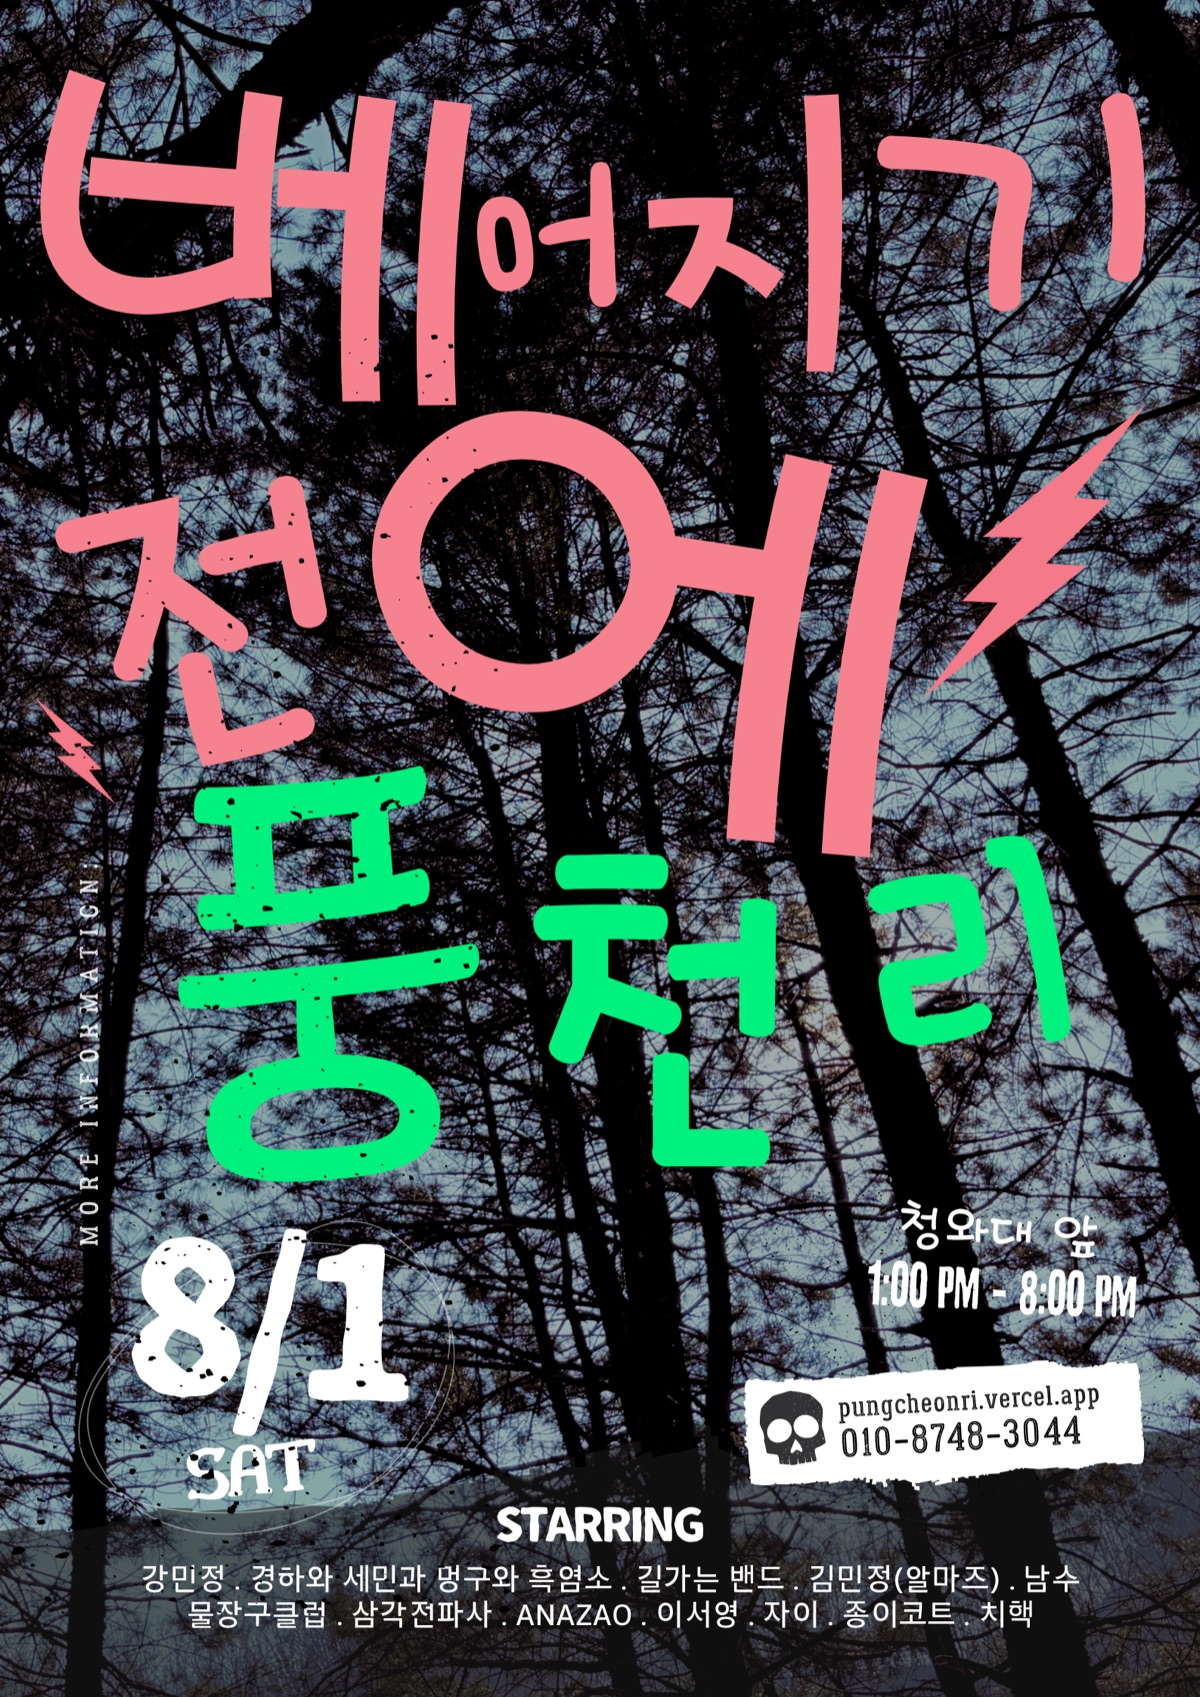
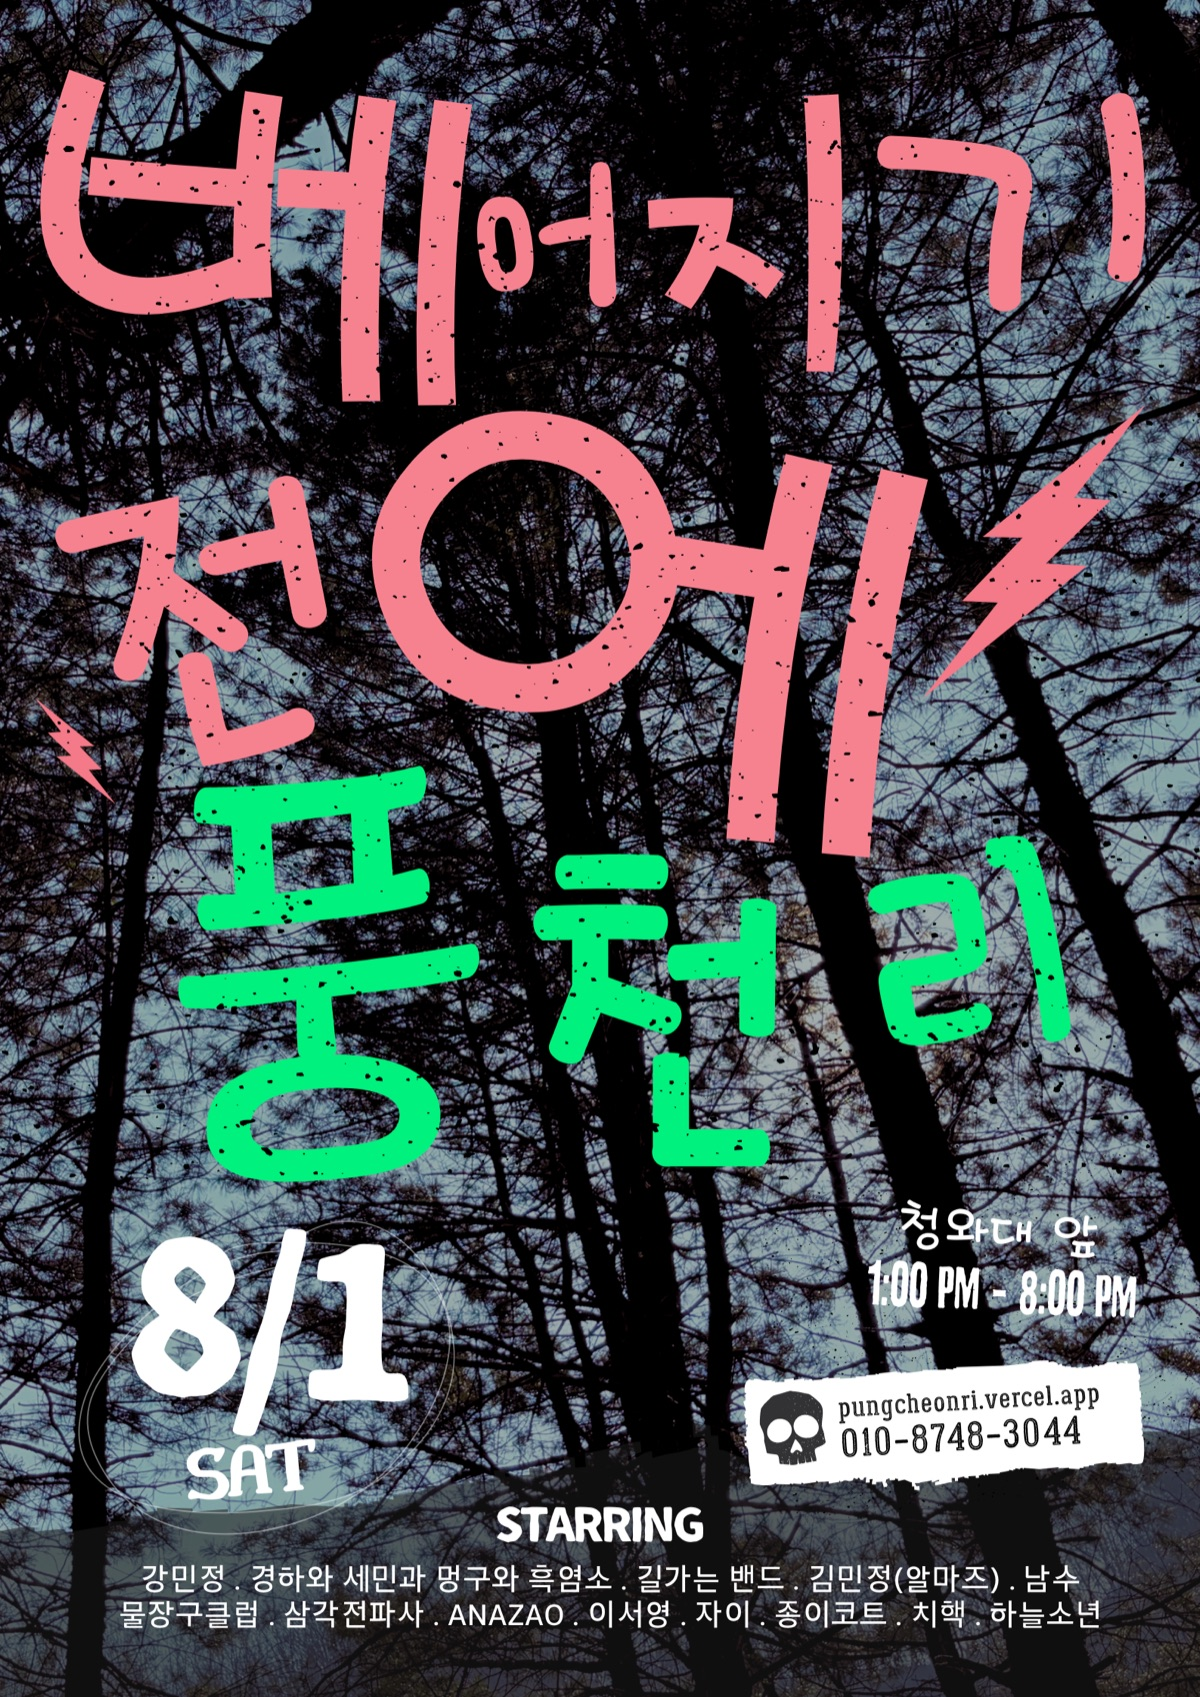
출연자명 '하늘소년'으로 변경 + 13팀 신규 포스터 교체(표시·OG)
- 하늘소년 김영준 → 하늘소년 (라인업·타임테이블·메타데이터)
- 하늘소년 포함 13팀 포스터 최신본으로 교체, alt에 라인업 복원

diff --git a/website/src/app/concert/page.tsx b/website/src/app/concert/page.tsx
@@ -26,7 +26,7 @@ import ConcertHero from "./ConcertHero";
 export const metadata: Metadata = {
   title: "베어지기 전에 풍천리 — 8·1 청와대 앞 공연",
   description:
-    "2026년 8월 1일(토) 오후 1시–8시, 청와대 앞. 잣나무 11만 그루가 베어지기 전에, 풍천리를 지키려는 음악가 13팀이 모입니다. 강민정·경하와 세민과 멍구와 흑염소·길가는 밴드·김민정(알마즈)·남수·물장구클럽·삼각전파사·아나자오·이서영·자이·종이코트·치핵·하늘소년 김영준.",
+    "2026년 8월 1일(토) 오후 1시–8시, 청와대 앞. 잣나무 11만 그루가 베어지기 전에, 풍천리를 지키려는 음악가 13팀이 모입니다. 강민정·경하와 세민과 멍구와 흑염소·길가는 밴드·김민정(알마즈)·남수·물장구클럽·삼각전파사·아나자오·이서영·자이·종이코트·치핵·하늘소년.",
   openGraph: {
     title: "베어지기 전에 풍천리 — 8·1 청와대 앞 공연",
     description:
@@ -379,7 +379,7 @@ export default function ConcertPage() {
           <div className="mt-8 overflow-hidden rounded-2xl border border-[var(--color-border)] shadow-lg">
             <Image
               src="/images/concert/poster.jpg"
-              alt="베어지기 전에 풍천리 공연 포스터 — 2026년 8월 1일 토요일 오후 1시부터 8시, 청와대 앞"
+              alt="베어지기 전에 풍천리 공연 포스터 — 2026년 8월 1일 토요일 오후 1시부터 8시, 청와대 앞. 출연: 강민정, 경하와 세민과 멍구와 흑염소, 길가는 밴드, 김민정(알마즈), 남수, 물장구클럽, 삼각전파사, 아나자오, 이서영, 자이, 종이코트, 치핵, 하늘소년"
               width={1200}
               height={1697}
               sizes="(max-width: 768px) 100vw, 672px"

diff --git a/website/src/lib/concert.ts b/website/src/lib/concert.ts
@@ -22,7 +22,7 @@ export const CONCERT_LINEUP = [
   "자이",
   "종이코트",
   "치핵",
-  "하늘소년 김영준",
+  "하늘소년",
 ];
 
 export interface ConcertSlot {
@@ -37,7 +37,7 @@ export const CONCERT_TIMETABLE: ConcertSlot[] = [
   { start: "13:30", end: "14:00", name: "강민정" },
   { start: "14:00", end: "14:30", name: "경하와 세민과 멍구와 흑염소" },
   { start: "14:30", end: "15:00", name: "길가는 밴드" },
-  { start: "15:00", end: "15:30", name: "하늘소년 김영준" },
+  { start: "15:00", end: "15:30", name: "하늘소년" },
   { start: "15:30", end: "16:00", name: "남수" },
   { start: "16:00", end: "16:30", name: "이서영" },
   { start: "16:30", end: "17:00", name: "김민정(알마즈)" },